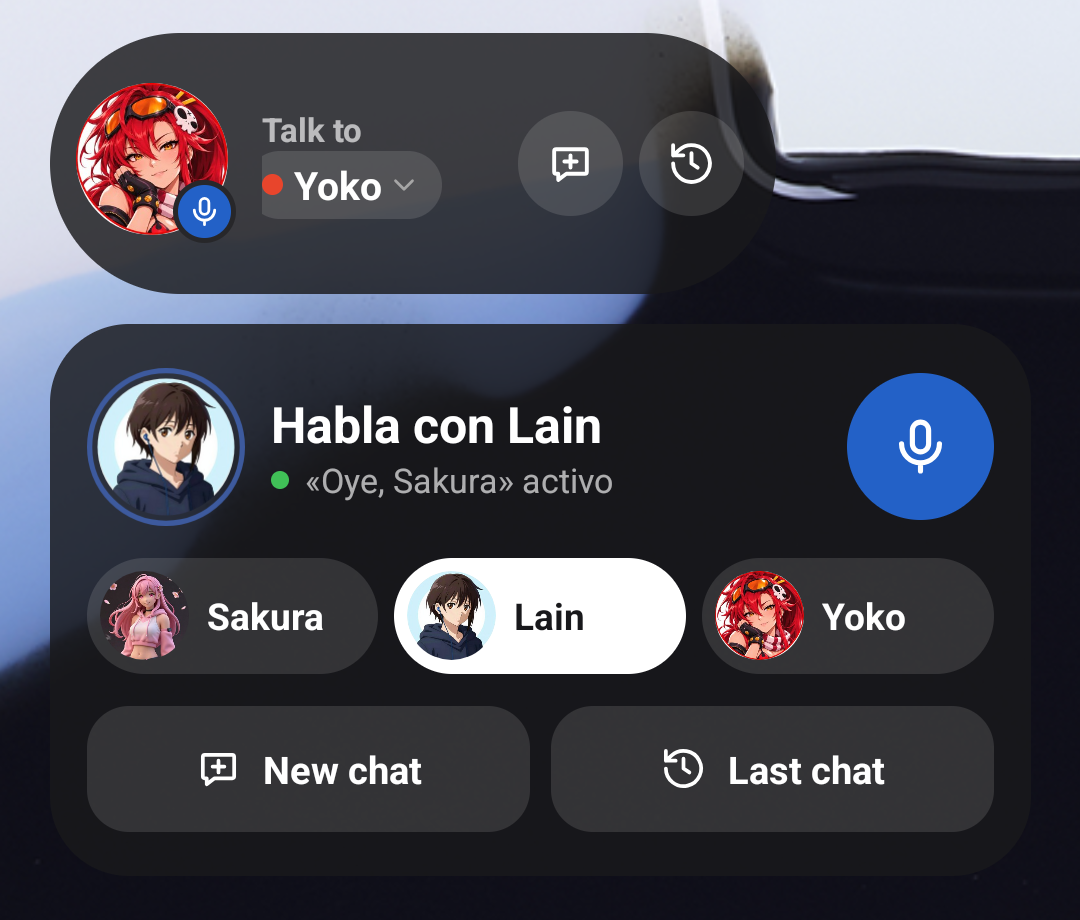
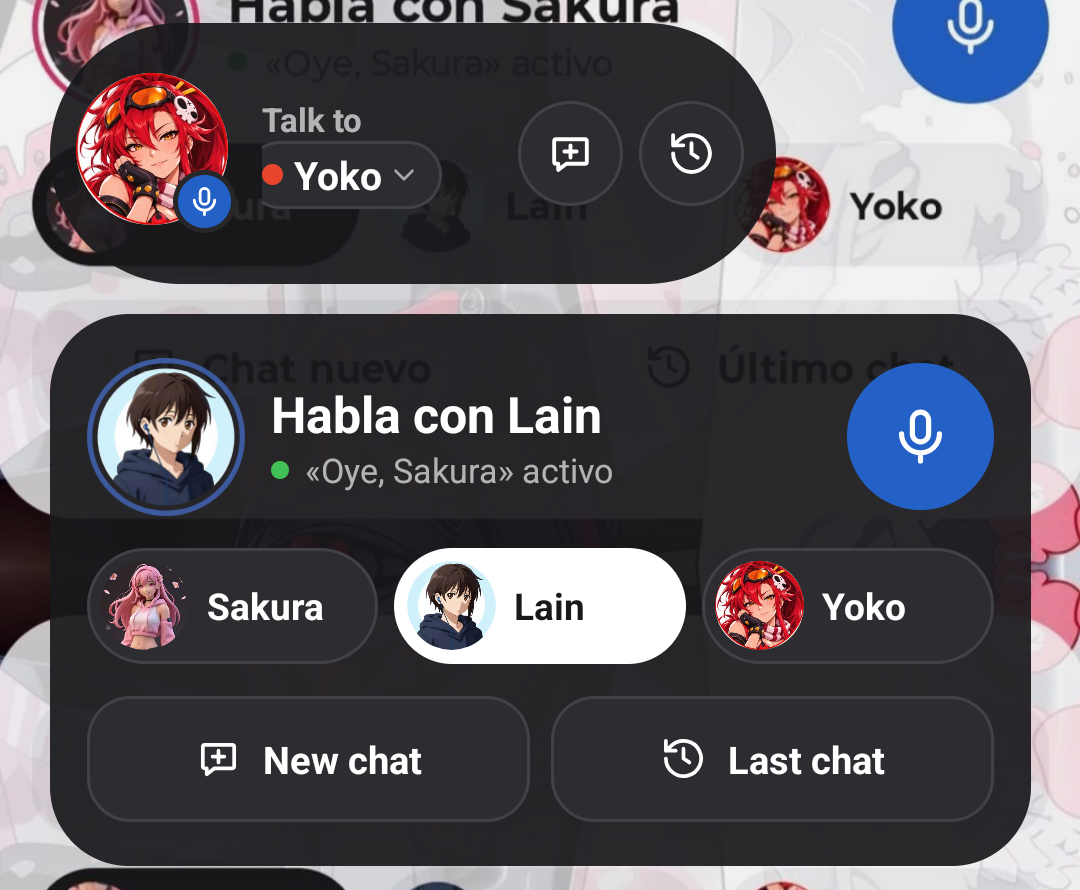
docs: add Sakura OI Web 0.7.6 release notes

diff --git a/README.md b/README.md
@@ -1,4 +1,4 @@
-# 🌸 Sakura OI Web 📱 v0.7.4
+# 🌸 Sakura OI Web 📱 v0.7.6
 
 <div align="center">
   <img src="assets/sakura-oi-web-icon.png" alt="Logo de Sakura OI Web: flor con contorno arcoíris y las letras OI" width="160">
@@ -71,7 +71,7 @@ Las capturas muestran la animación de inicio mientras conecta, la pantalla de e
 
 ## 📦 Versiones documentadas
 
-- App: Sakura OI Web **0.7.4** (versionCode 46). Historial completo en [CHANGELOG.md](CHANGELOG.md).
+- App: Sakura OI Web **0.7.6** (versionCode 48). Historial completo en [CHANGELOG.md](CHANGELOG.md).
 - Notificaciones verificadas en el teléfono Android 16 de referencia con Open WebUI 0.12.3. Pantallas, icono y barras en tema claro y oscuro de 0.2.1 a 0.2.3 verificados en el emulador de Android Studio (API 37).
 - Open WebUI: **0.12.3**, versión verificada en la instalación local.
 - Nombre visible del modelo en Open WebUI: **Sakura**. Los registros identifican **llama.cpp 0.7.0-dev**, compilado para x64 con CUDA desde el commit `ea0c4c2c8`, que carga `SoAIHQ/Qwen3.5-9B-GGUF:Q4_K_M` (Qwen 3.5 de 9B, cuantización Q4_K_M). llama.cpp es el servidor de inferencia; el modelo no pertenece a la familia Llama. El alias Sakura se configura en Open WebUI.
@@ -80,7 +80,12 @@ Las capturas muestran la animación de inicio mientras conecta, la pantalla de e
 - Herramientas fijadas en el proyecto: Android Gradle Plugin 9.4.1, Gradle 9.6.0, Kotlin 2.2.10 y JDK 17 para ejecutar Gradle. El código Java usa compatibilidad de lenguaje 11.
 - Ideas en desarrollo y pendientes, incluida la activación por voz “Oye, Sakura”, en [docs/IDEAS.md](docs/IDEAS.md).
 
-## 🆕 Novedades de la versión 0.7.4
+## 🆕 Novedades de la versión 0.7.6
+
+- **Widget más legible:** los botones **Chat nuevo** y **Último chat**, los chips de Sakura, Lain y Yoko y los botones redondos tienen relleno sólido y borde, y el fondo es más opaco. Se distinguen aunque el fondo de pantalla tenga mucho dibujo.
+- **Activación más lenta y sin tono:** la línea rosa recorre los bordes más despacio (unos 2.4 s) mientras Sakura carga debajo; en el emulador el modo de voz ya escucha antes de que termine. El tono de activación se quitó por ahora.
+
+### Versión 0.7.4
 
 Hablar con Sakura es más fácil y más rápido.
 
@@ -100,11 +105,11 @@ Hablar con Sakura es más fácil y más rápido.
 
 | Widgets (claro) | Widgets (oscuro) | ¿Con quién quieres hablar? |
 |:--:|:--:|:--:|
-| <img src="docs/images/widgets.png" alt="Widget de una fila con Yoko y widget grande con los chips Sakura, Lain y Yoko" width="220"> | <img src="docs/images/widgets-dark.png" alt="Los mismos widgets en tema oscuro" width="220"> | <img src="docs/images/widget-model-picker.png" alt="Selector de modelo del widget con Sakura, Lain y Yoko, en tema oscuro" width="220"> |
+| <img src="docs/images/widgets.png" alt="Widget de una fila con Yoko y widget grande con los chips Sakura, Lain y Yoko, sobre un fondo con mucho dibujo" width="220"> | <img src="docs/images/widgets-dark.png" alt="Los mismos widgets en tema oscuro" width="220"> | <img src="docs/images/widget-model-picker.png" alt="Selector de modelo del widget con Sakura, Lain y Yoko, en tema oscuro" width="220"> |
 
 | «Oye, Sakura» | Frase de activación | Activación |
 |:--:|:--:|:--:|
-| <img src="docs/images/wake-settings.png" alt="Pantalla Oye, Sakura con el interruptor activo, la frase y la sensibilidad" width="220"> | <img src="docs/images/wake-phrase.png" alt="Hoja para elegir la frase de activación" width="220"> | <img src="docs/images/wake-activation.png" alt="Línea rosa recorriendo los bordes con la flor arriba mientras abre Sakura" width="220"> |
+| <img src="docs/images/wake-settings.png" alt="Pantalla Oye, Sakura con el interruptor activo, la frase y la sensibilidad" width="220"> | <img src="docs/images/wake-phrase.png" alt="Hoja para elegir la frase de activación" width="220"> | <img src="docs/images/wake-activation.png" alt="Línea rosa recorriendo los bordes con la flor arriba sobre el modo de voz ya abierto" width="220"> |
 
 | Entrenar tu voz | Prueba en vivo |
 |:--:|:--:|
@@ -249,7 +254,8 @@ Resumen de todos los cambios de la app. El detalle de cada versión está en [CH
 
 | Versión | versionCode | Cambios |
 |---|---:|---|
-| **0.7.4** | 46 | Widget con Sakura, Lain y Yoko, ajuste rápido, botón Hablar, pantalla «Oye, Sakura» con frase, sensibilidad y entrenamiento de voz, animación de activación, voz sin recargar la página y sin el aviso “Abrir enlace”. |
+| **0.7.6** | 48 | Botones del widget sólidos y con borde, legibles sobre cualquier fondo; animación de activación más lenta y sin tono. |
+| 0.7.4 | 46 | Widget con Sakura, Lain y Yoko, ajuste rápido, botón Hablar, pantalla «Oye, Sakura» con frase, sensibilidad y entrenamiento de voz, animación de activación, voz sin recargar la página y sin el aviso “Abrir enlace”. |
 | 0.6.1 | 40 | El modo de voz se abre sin el aviso “Open link” de Open WebUI, también tras cambiar a la dirección de casa. |
 | 0.6.0 | 39 | Asistente de configuración y de permisos, Ajustes del teléfono, compartir con Sakura, “Preguntar a Sakura”, accesos directos, asistente del teléfono, red de casa y exterior, aviso sin conexión, deslizar para recargar, “Oye, Sakura” e idioma inglés. |
 | 0.3.2 | 38 | Apertura directa sin pantalla de carga, aviso de sin conexión solo ante errores reales y caché permanente de los archivos de Open WebUI que no cambian. |
@@ -301,7 +307,7 @@ Instala Android Studio compatible con Android Gradle Plugin 9.4.1, Android SDK P
 | Android mínimo | API 23 / Android 6.0 | Versión mínima para instalar la app |
 | Android objetivo | API 36 / Android 16 | Comportamientos de Android para los que está configurada |
 | SDK de compilación | API 37 / Android 17 | Plataforma necesaria para compilar; no es requisito para el teléfono |
-| Versión de Sakura OI Web | 0.7.4 (versionCode 46) | Versión del APK de este repositorio |
+| Versión de Sakura OI Web | 0.7.6 (versionCode 48) | Versión del APK de este repositorio |
 
 La versión de Android de tu teléfono es independiente del SDK de compilación. En el dispositivo Android 16 de referencia, la app funciona con target API 36.
 

diff --git a/docs/ANDROID.md b/docs/ANDROID.md
@@ -17,7 +17,7 @@ Esta tabla distingue la versión de Android que puede instalar la app del SDK us
 | Android mínimo (minSdk) | API 23 / Android 6.0 | Versión mínima admitida por el APK |
 | Android objetivo (targetSdk) | API 36 / Android 16 | Comportamientos del sistema para los que se configura |
 | SDK de compilación (compileSdk) | API 37 / Android 17 | SDK que debe instalarse para compilar; el teléfono no requiere Android 17 |
-| Sakura OI Web | 0.7.4 (versionCode 46) | Versión actual del proyecto |
+| Sakura OI Web | 0.7.6 (versionCode 48) | Versión actual del proyecto |
 | Android Gradle Plugin | 9.4.1 | Plugin de compilación Android |
 | Gradle Wrapper | 9.6.0 | Versión incluida y usada por el proyecto |
 | Kotlin | 2.2.10 | Versión configurada del plugin de Kotlin |
@@ -229,13 +229,13 @@ Opcional y desactivado por defecto. Tiene pantalla propia (`WakeWordSettingsActi
 
 - **Frase y sensibilidad** (`WakePhrase.kt`): “Oye, Sakura”, “Hola, Sakura”, “Sakura, escucha” o una propia. El modelo no conoce la palabra “Sakura”, así que la frase se compara por cómo suena (“sacura”, “sa cura”, “zakura”…). La sensibilidad Estricta, Normal o Relajada fija cuánto tiene que parecerse.
 - **Entrenar tu voz** (`VoiceTrainingActivity.kt`): dices la frase 5 veces y las transcripciones se guardan como variantes aceptadas; **Prueba en vivo** muestra lo que escucha y si se activaría, sin abrir nada.
-- **Activación** (`WakeActivation.kt`): con **Mostrar sobre otras apps** concedido, suena un tono, brota la flor arriba y una línea rosa recorre los bordes de la pantalla. La app arranca desde el primer cuadro, debajo de la animación; la animación va en un hilo propio para no congelarse mientras arranca el WebView. Sin ese permiso aparece una notificación que hay que tocar.
+- **Activación** (`WakeActivation.kt`): con **Mostrar sobre otras apps** concedido, brota la flor arriba y una línea rosa recorre los bordes de la pantalla durante unos 2.4 s (`SLOWER`). El tono de activación está apagado por ahora (`TONE`). La app arranca desde el primer cuadro, debajo de la animación; la animación va en un hilo propio para no congelarse mientras arranca el WebView. Sin ese permiso aparece una notificación que hay que tocar.
 - **Rapidez:** si Open WebUI ya está cargado, el modo de voz se abre dentro de la página (el enrutador de SvelteKit toma el enlace `/?call=true`), sin recargar. Atrás en la primera pantalla manda la app al fondo para conservar la página, y el servicio carga el motor web al arrancar.
 - La app acepta sola el aviso de Open WebUI “¿Iniciar una llamada de voz con tu micrófono?” en cualquier página en cuanto aparece, y quita `?call` y `?models` de la dirección.
 
 ## Widget, ajuste rápido y audífonos
 
-- **Widget** (`VoiceWidgetProvider` en `QuickVoice.kt`, `res/layout/widget_small.xml` y `widget_large.xml`): nace en 4 × 2 y se puede achicar a una fila. Los colores siguen el tema del teléfono (`values-night/widget_colors.xml`). Cada widget guarda su modelo (`ChatModels.kt`); los chips de Sakura, Lain y Yoko lo cambian de un toque y la cápsula del widget de una fila abre `WidgetModelPickerActivity`, que puede pedir al servidor la lista completa de modelos visibles con la sesión guardada. El modo de voz y los chats nuevos se abren con `?models=<id>`.
+- **Widget** (`VoiceWidgetProvider` en `QuickVoice.kt`, `res/layout/widget_small.xml` y `widget_large.xml`): nace en 4 × 2 y se puede achicar a una fila. Los colores siguen el tema del teléfono (`values-night/widget_colors.xml`). Como Android no permite desenfoque en los widgets, el fondo es casi opaco y los botones tienen relleno sólido y borde para leerse sobre cualquier fondo de pantalla. Cada widget guarda su modelo (`ChatModels.kt`); los chips de Sakura, Lain y Yoko lo cambian de un toque y la cápsula del widget de una fila abre `WidgetModelPickerActivity`, que puede pedir al servidor la lista completa de modelos visibles con la sesión guardada. El modo de voz y los chats nuevos se abren con `?models=<id>`.
 - **Ajuste rápido** (`VoiceTileService`): “Hablar con Sakura” en el panel de notificaciones; en Android 13 o superior la pantalla «Oye, Sakura» lo agrega con un toque.
 - **Audífonos:** con Sakura como asistente digital, `VOICE_COMMAND` y `VOICE_SEARCH_HANDS_FREE` abren el modo de voz.
 - **Prueba sin voz:** la compilación de depuración trae `WakeActivationTestReceiver`, que reproduce la activación con `adb shell am broadcast -a com.sakura.webapp.debug.WAKE -n com.sakura.webapp/.WakeActivationTestReceiver`. Solo responde a quien tiene el permiso `DUMP` (adb).

diff --git a/CHANGELOG.md b/CHANGELOG.md
@@ -2,6 +2,15 @@
 
 Cambios de Sakura OI Web (antes SakuraWebApp) por versión. La versión de cada APK está en `app/build.gradle.kts` (`versionName` y `versionCode`).
 
+## 0.7.6 (versionCode 48) — 12 de noviembre de 2026
+
+Incluye la compilación local 0.7.5.
+
+### Cambiado
+- Widget: los botones Chat nuevo y Último chat, los chips de modelos, la cápsula y los botones redondos tienen relleno sólido y un borde fino, y el fondo del widget es más opaco (92 %). Sobre fondos de pantalla con mucho dibujo ya se distinguen en tema claro y oscuro; Android no permite el desenfoque del diseño en los widgets.
+- La animación de activación de «Oye, Sakura» va 1.8 veces más lenta (unos 2.4 s) para cubrir la carga de la app, que arranca debajo desde el primer cuadro.
+- Se quitó por ahora el tono de activación (`WakeActivation.TONE`); el sonido sigue en `res/raw` para usar otro más adelante.
+
 ## 0.7.4 (versionCode 46) — 12 de noviembre de 2026
 
 Reúne las compilaciones locales 0.6.2 y 0.7.0 a 0.7.3. Sigue el diseño "App Android · widgets y «Oye, Sakura»".
